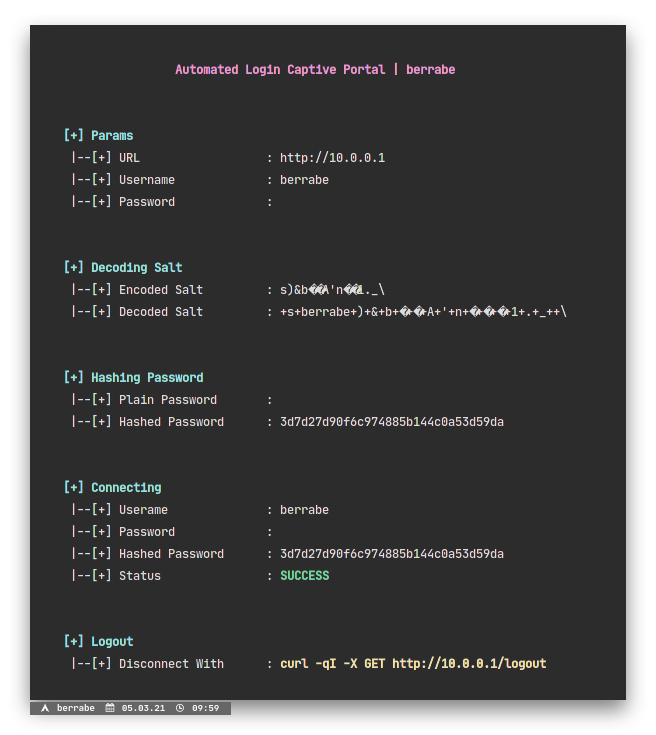
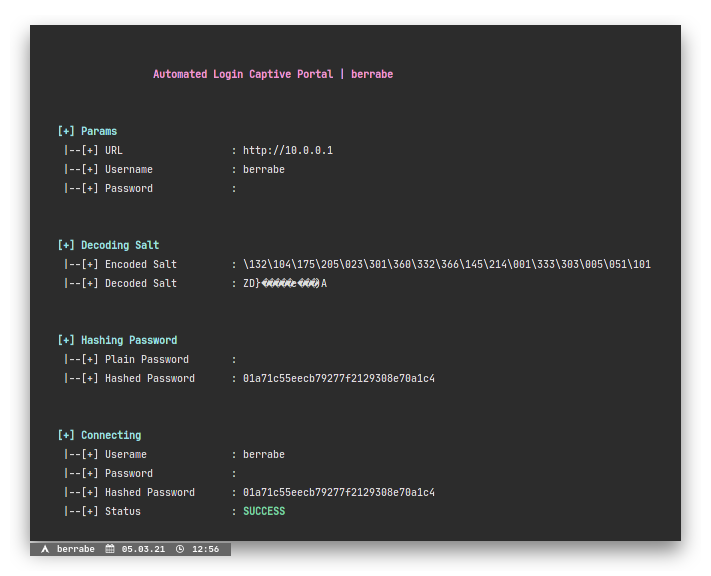
1 - update docs/connecting.png, readme.md   - update new photo and fix bug on readme 2 - update mtk.sh   - simplify decoded logic LOL, delete logout section

diff --git a/readme.md b/readme.md
@@ -23,7 +23,7 @@ the simple steps needed to use this script, all you have to do is download the s
 
 <br/><br/>
 
-### 5 - POC
+### 3 - POC
 ---
 <p align="center">
   <img src="docs/help.png"><br/>
